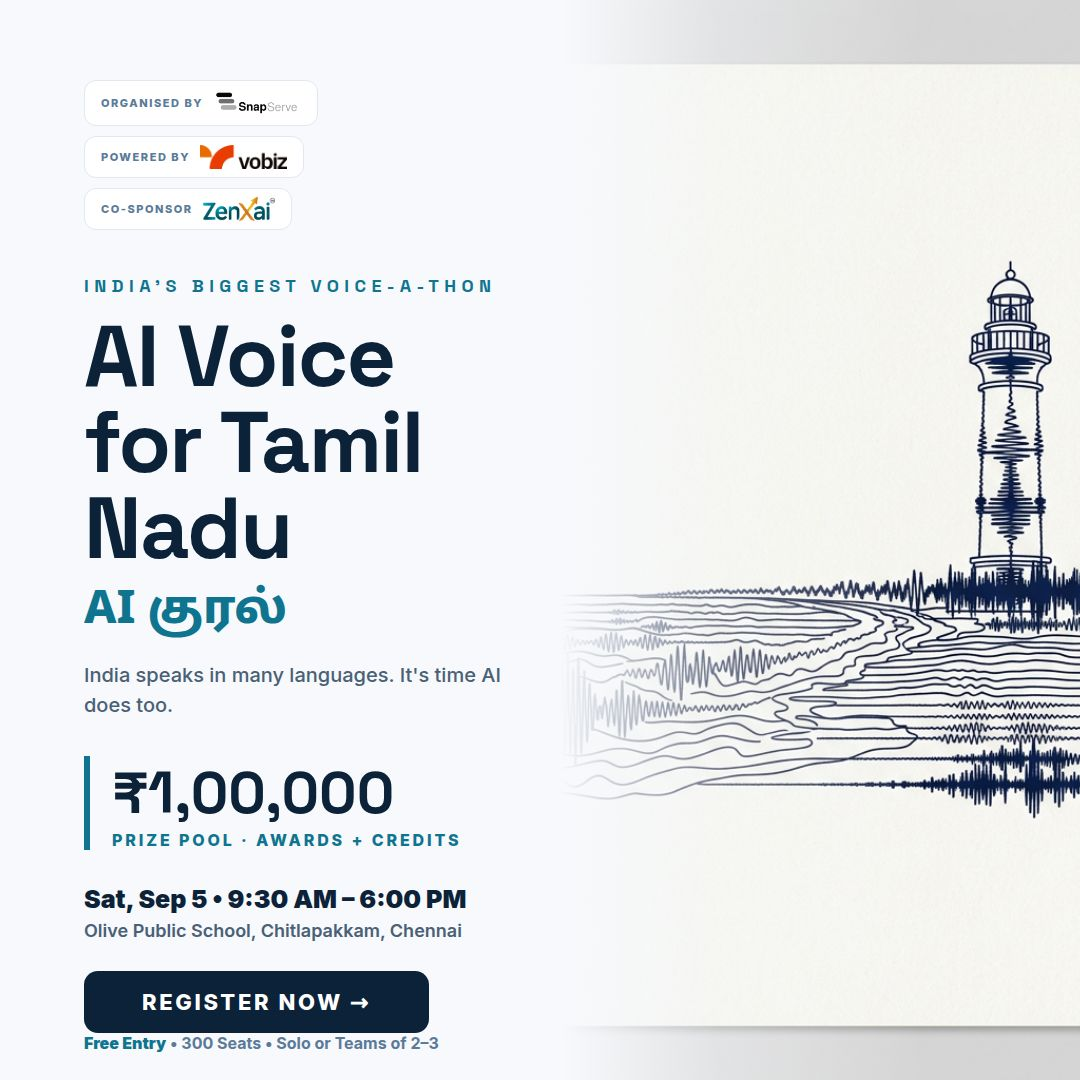
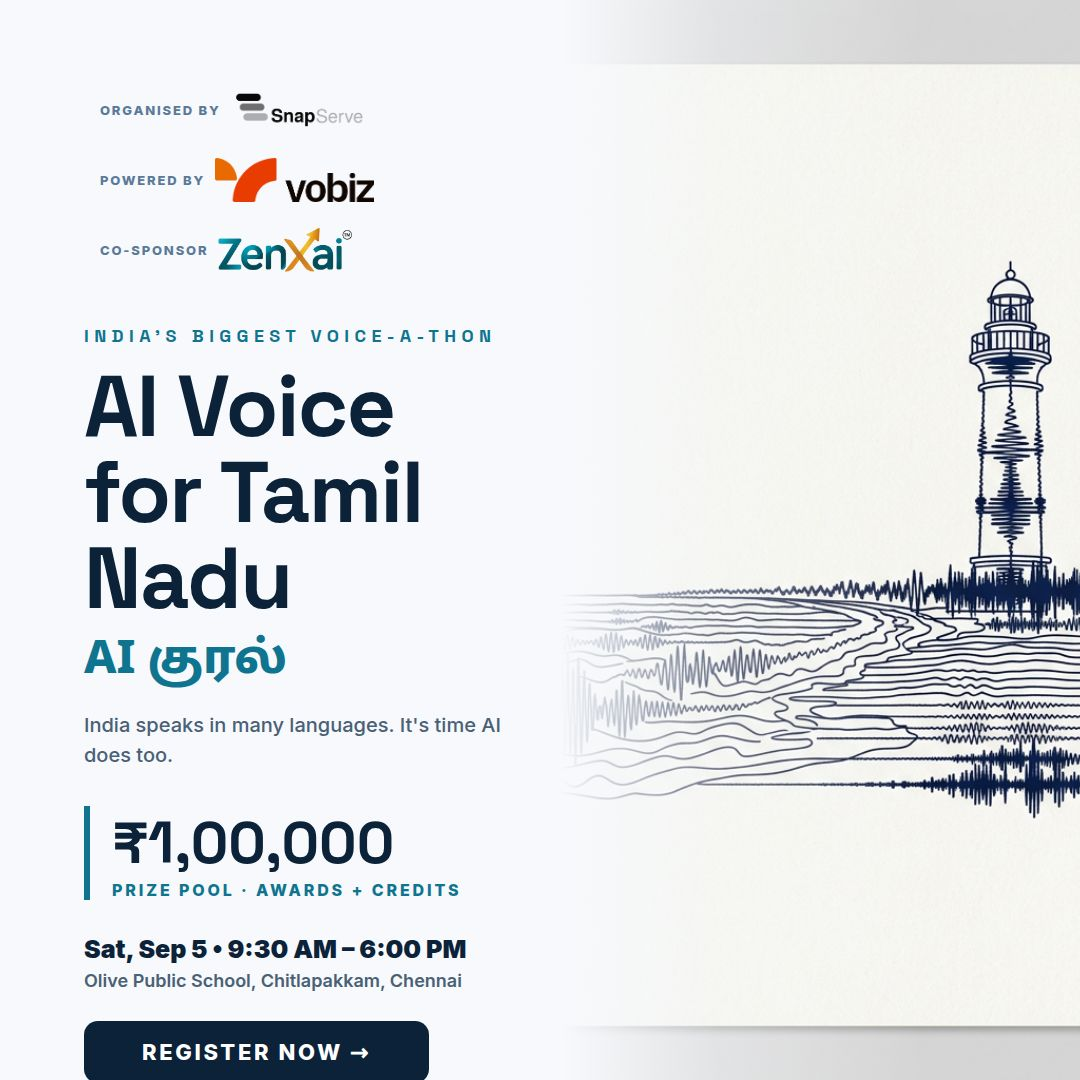
Update poster assets and metadata for snapserve-book
Replit-Commit-Author: Agent

Changed region(s): [[0.0611, 0.3056, 0.4583, 1.0], [0.0917, 0.0611, 0.4583, 0.275]]

diff --git a/artifacts/snapserve-book/public/poster/luma3.html b/artifacts/snapserve-book/public/poster/luma3.html
@@ -6,13 +6,12 @@
 html,body{width:1080px;height:1080px;overflow:hidden}
 body{font-family:'Inter',sans-serif;background:#FFFDFA;color:#123C42;position:relative}
 .art{position:absolute;top:0;left:0;right:0;height:470px;background:url(art/napier.png) center/cover no-repeat}
-.fade{position:absolute;top:0;left:0;right:0;height:470px;background:linear-gradient(0deg,#FFFDFA 0%,rgba(255,253,250,.15) 45%,rgba(255,253,250,0) 100%)}
+.fade{position:absolute;top:0;left:0;right:0;height:470px;background:linear-gradient(0deg,#FFFDFA 0%,rgba(255,253,250,.15) 45%,rgba(255,253,250,0) 70%,rgba(255,253,250,.85) 100%)}
 .band{position:absolute;top:44px;left:0;right:0;display:flex;justify-content:center}
-.chips{display:flex;gap:14px;background:rgba(255,255,255,.92);border:1px solid #E3EBEA;border-radius:999px;padding:12px 24px;box-shadow:0 8px 22px rgba(20,70,70,.1)}
-.chip{display:flex;align-items:center;gap:9px}
-.chip span{font-size:11px;font-weight:800;letter-spacing:.12em;color:#57807E}
-.chip img{height:24px}
-.chip+.chip{border-left:1px solid #E3EBEA;padding-left:14px}
+.chips{display:flex;gap:36px;border-radius:999px;padding:12px 24px;}
+.chip{display:flex;align-items:center;gap:12px}
+.chip span{font-size:13px;font-weight:800;letter-spacing:.12em;color:#123C42;white-space:nowrap}
+.chip img{height:44px}
 .wrap{position:absolute;top:430px;left:0;right:0;bottom:0;display:flex;flex-direction:column;align-items:center;text-align:center;padding:20px 90px 56px}
 .kicker{font-family:'Archivo';font-size:18px;font-weight:900;letter-spacing:.32em;color:#E5653A}
 h1{font-family:'Archivo';font-weight:900;font-size:84px;line-height:1.0;margin-top:12px;letter-spacing:-.01em}
@@ -29,7 +28,7 @@ h1{font-family:'Archivo';font-weight:900;font-size:84px;line-height:1.0;margin-t
 </style></head><body>
 <div class="art"></div><div class="fade"></div>
 <div class="band"><div class="chips">
-  <div class="chip"><span>ORGANISED BY</span><img src="snapserve-logo.png" style="height:26px"></div>
+  <div class="chip"><span>ORGANISED BY</span><img src="snapserve-logo-t.png"></div>
   <div class="chip"><span>POWERED BY</span><img src="vobiz-logo.png"></div>
   <div class="chip"><span>CO-SPONSOR</span><img src="zenxai-logo.png"></div>
 </div></div>

diff --git a/artifacts/snapserve-book/public/poster/luma8.html b/artifacts/snapserve-book/public/poster/luma8.html
@@ -7,9 +7,9 @@ html,body{width:1080px;height:1080px;overflow:hidden}
 body{font-family:'Inter',sans-serif;background:#FFF4EA url(art/marina-sunrise.png) center top/cover no-repeat;color:#3A2118;position:relative}
 .panel{position:absolute;left:70px;right:70px;bottom:64px;background:rgba(255,251,246,.95);border-radius:26px;padding:44px 56px;box-shadow:0 24px 60px rgba(120,50,20,.22);text-align:center}
 .chips{position:absolute;top:44px;left:0;right:0;display:flex;justify-content:center;gap:14px}
-.chip{display:flex;align-items:center;gap:9px;background:rgba(255,255,255,.94);border-radius:999px;padding:9px 18px;box-shadow:0 6px 16px rgba(120,50,20,.15)}
-.chip span{font-size:11px;font-weight:800;letter-spacing:.12em;color:#A06A4A}
-.chip img{height:24px}
+.chip{display:flex;align-items:center;gap:9px;border-radius:999px;padding:9px 18px;}
+.chip span{font-size:13px;font-weight:800;letter-spacing:.12em;color:#A06A4A}
+.chip img{height:44px}
 .kicker{font-family:'Poppins';font-size:16px;font-weight:800;letter-spacing:.32em;color:#E0592A}
 h1{font-family:'Poppins';font-weight:900;font-size:66px;line-height:1.04;margin-top:8px}
 .tamil{font-family:'Noto Sans Tamil',sans-serif;font-weight:800;font-size:38px;margin-top:6px;color:#E0592A}
@@ -20,7 +20,7 @@ h1{font-family:'Poppins';font-weight:900;font-size:66px;line-height:1.04;margin-
 .foot{margin-top:16px;font-size:16px;font-weight:700;color:#A06A4A}
 </style></head><body>
 <div class="chips">
-  <div class="chip"><span>ORGANISED BY</span><img src="snapserve-logo.png" style="height:26px"></div>
+  <div class="chip"><span>ORGANISED BY</span><img src="snapserve-logo-t.png"></div>
   <div class="chip"><span>POWERED BY</span><img src="vobiz-logo.png"></div>
   <div class="chip"><span>CO-SPONSOR</span><img src="zenxai-logo.png"></div>
 </div>

diff --git a/artifacts/snapserve-book/public/poster/luma5.html b/artifacts/snapserve-book/public/poster/luma5.html
@@ -9,9 +9,9 @@ body{font-family:'Inter',sans-serif;background:#05070F;color:#EAF2FF;position:re
 .fade{position:absolute;bottom:200px;left:0;right:0;height:330px;background:linear-gradient(180deg,#05070F 0%,rgba(5,7,15,0) 100%)}
 .wrap{position:absolute;inset:0;display:flex;flex-direction:column;align-items:center;text-align:center;padding:66px 90px}
 .chips{display:flex;gap:14px}
-.chip{display:flex;align-items:center;gap:10px;background:#fff;border-radius:10px;padding:8px 16px}
-.chip span{font-size:11px;font-weight:800;letter-spacing:.12em;color:#5A6B85}
-.chip img{height:24px}
+.chip{display:flex;align-items:center;gap:10px;border-radius:10px;padding:8px 16px}
+.chip span{font-size:13px;font-weight:800;letter-spacing:.12em;color:#5A6B85}
+.chip img{height:44px;filter:brightness(0) invert(1)}
 .kicker{margin-top:36px;font-family:'Space Grotesk';font-size:18px;font-weight:700;letter-spacing:.34em;background:linear-gradient(90deg,#22D3EE,#F97316);-webkit-background-clip:text;background-clip:text;color:transparent}
 h1{font-family:'Space Grotesk';font-weight:700;font-size:92px;line-height:1.0;margin-top:14px;letter-spacing:-.02em}
 .tamil{font-family:'Noto Sans Tamil',sans-serif;font-weight:800;font-size:48px;margin-top:10px;color:#22D3EE}
@@ -30,7 +30,7 @@ h1{font-family:'Space Grotesk';font-weight:700;font-size:92px;line-height:1.0;ma
 <div class="art"></div><div class="fade"></div>
 <div class="wrap">
   <div class="chips">
-    <div class="chip"><span>ORGANISED BY</span><img src="snapserve-logo.png" style="height:26px"></div>
+    <div class="chip"><span>ORGANISED BY</span><img src="snapserve-logo-t.png"></div>
     <div class="chip"><span>POWERED BY</span><img src="vobiz-logo.png"></div>
     <div class="chip"><span>CO-SPONSOR</span><img src="zenxai-logo.png"></div>
   </div>

diff --git a/artifacts/snapserve-book/public/poster/luma2.html b/artifacts/snapserve-book/public/poster/luma2.html
@@ -9,9 +9,9 @@ body{font-family:'Inter',sans-serif;background:#F7F9FC;color:#0B2239;position:re
 .right{position:absolute;right:0;top:0;bottom:0;width:520px;background:url(art/lighthouse-wave.png) center/cover no-repeat}
 .rfade{position:absolute;right:0;top:0;bottom:0;width:520px;background:linear-gradient(90deg,#F7F9FC 0%,rgba(247,249,252,.4) 30%,rgba(247,249,252,0) 70%)}
 .chips{display:flex;flex-direction:column;gap:10px;align-items:flex-start}
-.chip{display:flex;align-items:center;gap:10px;background:#fff;border:1px solid #E1E8F0;border-radius:12px;padding:8px 16px}
-.chip span{font-size:11px;font-weight:800;letter-spacing:.14em;color:#5B7A99}
-.chip img{height:24px}
+.chip{display:flex;align-items:center;gap:10px;border-radius:12px;padding:8px 16px}
+.chip span{font-size:13px;font-weight:800;letter-spacing:.14em;color:#5B7A99}
+.chip img{height:44px}
 .kicker{margin-top:44px;font-family:'Space Grotesk';font-size:18px;font-weight:700;letter-spacing:.3em;color:#0E7490}
 h1{font-family:'Space Grotesk';font-weight:700;font-size:86px;line-height:1.0;margin-top:16px;letter-spacing:-.02em}
 .tamil{font-family:'Noto Sans Tamil',sans-serif;font-weight:800;font-size:46px;margin-top:12px;color:#0E7490}
@@ -28,7 +28,7 @@ h1{font-family:'Space Grotesk';font-weight:700;font-size:86px;line-height:1.0;ma
 <div class="right"></div><div class="rfade"></div>
 <div class="left">
   <div class="chips">
-    <div class="chip"><span>ORGANISED BY</span><img src="snapserve-logo.png" style="height:28px"></div>
+    <div class="chip"><span>ORGANISED BY</span><img src="snapserve-logo-t.png"></div>
     <div class="chip"><span>POWERED BY</span><img src="vobiz-logo.png"></div>
     <div class="chip"><span>CO-SPONSOR</span><img src="zenxai-logo.png"></div>
   </div>

diff --git a/artifacts/snapserve-book/public/poster/luma7.html b/artifacts/snapserve-book/public/poster/luma7.html
@@ -10,9 +10,9 @@ body{font-family:'Inter',sans-serif;background:#F6EFDF;color:#332417;position:re
 .art{position:absolute;bottom:56px;right:96px;width:400px;height:430px;background:url(art/auto-halftone.png) center/contain no-repeat}
 .wrap{position:absolute;inset:0;display:flex;flex-direction:column;padding:70px 110px}
 .chips{display:flex;gap:12px}
-.chip{display:flex;align-items:center;gap:9px;background:#fff;border:1px solid #E5D8BC;border-radius:8px;padding:8px 14px}
-.chip span{font-size:10px;font-weight:900;letter-spacing:.12em;color:#9A7A45}
-.chip img{height:22px}
+.chip{display:flex;align-items:center;gap:9px;border-radius:8px;padding:8px 14px}
+.chip span{font-size:13px;font-weight:900;letter-spacing:.12em;color:#9A7A45}
+.chip img{height:44px}
 .ticket{margin-top:46px;display:inline-block;background:#B3541E;color:#F6EFDF;font-weight:800;font-size:15px;letter-spacing:.3em;padding:10px 24px;align-self:flex-start;border-radius:4px}
 h1{font-family:'DM Serif Display',serif;font-size:100px;line-height:1.0;margin-top:20px;max-width:760px}
 .tamil{font-family:'Noto Sans Tamil',sans-serif;font-weight:800;font-size:46px;margin-top:12px;color:#B3541E}
@@ -26,7 +26,7 @@ h1{font-family:'DM Serif Display',serif;font-size:100px;line-height:1.0;margin-t
 <div class="tape"></div><div class="tape2"></div><div class="art"></div>
 <div class="wrap">
   <div class="chips">
-    <div class="chip"><span>ORGANISED BY</span><img src="snapserve-logo.png" style="height:24px"></div>
+    <div class="chip"><span>ORGANISED BY</span><img src="snapserve-logo-t.png"></div>
     <div class="chip"><span>POWERED BY</span><img src="vobiz-logo.png"></div>
     <div class="chip"><span>CO-SPONSOR</span><img src="zenxai-logo.png"></div>
   </div>

diff --git a/artifacts/snapserve-book/public/poster/luma1.html b/artifacts/snapserve-book/public/poster/luma1.html
@@ -10,9 +10,9 @@ body{font-family:'Inter',sans-serif;background:#FBF6ED;color:#2A1810;position:re
 .frame{position:absolute;inset:30px;border:2px solid rgba(150,90,40,.3);border-radius:24px}
 .wrap{position:absolute;inset:0;display:flex;flex-direction:column;align-items:center;text-align:center;padding:64px 90px}
 .chips{display:flex;gap:16px;align-items:center}
-.chip{display:flex;align-items:center;gap:10px;background:#fff;border:1px solid #EADFCC;border-radius:999px;padding:10px 20px;box-shadow:0 4px 12px rgba(120,60,10,.07)}
-.chip span{font-size:12px;font-weight:700;letter-spacing:.12em;color:#96704A}
-.chip img{height:26px}
+.chip{display:flex;align-items:center;gap:10px;border-radius:999px;padding:10px 20px;}
+.chip span{font-size:13px;font-weight:700;letter-spacing:.12em;color:#96704A}
+.chip img{height:44px}
 .kicker{margin-top:36px;font-size:19px;font-weight:800;letter-spacing:.34em;color:#C0541C}
 h1{font-family:'Fraunces',serif;font-weight:900;font-size:92px;line-height:1.02;margin-top:14px}
 .tamil{font-family:'Noto Sans Tamil',sans-serif;font-weight:800;font-size:52px;margin-top:8px;color:#C0541C}
@@ -31,7 +31,7 @@ h1{font-family:'Fraunces',serif;font-weight:900;font-size:92px;line-height:1.02;
 <div class="art"></div><div class="fade"></div><div class="frame"></div>
 <div class="wrap">
   <div class="chips">
-    <div class="chip"><span>ORGANISED BY</span><img src="snapserve-logo.png" style="height:30px"></div>
+    <div class="chip"><span>ORGANISED BY</span><img src="snapserve-logo-t.png"></div>
     <div class="chip"><span>POWERED BY</span><img src="vobiz-logo.png"></div>
     <div class="chip"><span>CO-SPONSOR</span><img src="zenxai-logo.png"></div>
   </div>

diff --git a/artifacts/snapserve-book/public/poster/luma10.html b/artifacts/snapserve-book/public/poster/luma10.html
@@ -10,9 +10,9 @@ body{font-family:'Inter',sans-serif;background:#06251F;color:#F2E9D8;position:re
 .frame{position:absolute;inset:34px;border:1px solid rgba(212,175,55,.45)}
 .wrap{position:absolute;inset:0;display:flex;flex-direction:column;padding:84px 0 76px 92px;max-width:640px}
 .chips{display:flex;flex-direction:column;gap:10px;align-items:flex-start}
-.chip{display:flex;align-items:center;gap:10px;background:#F7F3E8;border-radius:8px;padding:8px 16px}
-.chip span{font-size:10px;font-weight:900;letter-spacing:.14em;color:#8A7434}
-.chip img{height:22px}
+.chip{display:flex;align-items:center;gap:10px;border-radius:8px;padding:8px 16px}
+.chip span{font-size:13px;font-weight:900;letter-spacing:.14em;color:#8A7434}
+.chip img{height:44px;filter:brightness(0) invert(1)}
 .kicker{margin-top:44px;font-size:16px;font-weight:800;letter-spacing:.38em;color:#D4AF37}
 h1{font-family:'Playfair Display',serif;font-weight:800;font-size:88px;line-height:1.03;margin-top:14px}
 .tamil{font-family:'Noto Sans Tamil',sans-serif;font-weight:800;font-size:44px;margin-top:12px;color:#D4AF37}
@@ -29,7 +29,7 @@ h1{font-family:'Playfair Display',serif;font-weight:800;font-size:88px;line-heig
 <div class="art"></div><div class="rfade"></div><div class="frame"></div>
 <div class="wrap">
   <div class="chips">
-    <div class="chip"><span>ORGANISED BY</span><img src="snapserve-logo.png" style="height:24px"></div>
+    <div class="chip"><span>ORGANISED BY</span><img src="snapserve-logo-t.png"></div>
     <div class="chip"><span>POWERED BY</span><img src="vobiz-logo.png"></div>
     <div class="chip"><span>CO-SPONSOR</span><img src="zenxai-logo.png"></div>
   </div>

diff --git a/artifacts/snapserve-book/public/poster/luma4.html b/artifacts/snapserve-book/public/poster/luma4.html
@@ -10,9 +10,9 @@ body{font-family:'Inter',sans-serif;background:#0A1330 url(art/kolam-circuit.png
 .frame:after{content:"";position:absolute;inset:7px;border:1px solid rgba(224,181,102,.25)}
 .wrap{position:absolute;inset:0;display:flex;flex-direction:column;align-items:center;text-align:center;padding:78px 90px}
 .chips{display:flex;gap:14px}
-.chip{display:flex;align-items:center;gap:10px;background:rgba(245,235,216,.95);border-radius:999px;padding:9px 18px}
-.chip span{font-size:11px;font-weight:800;letter-spacing:.12em;color:#7A6234}
-.chip img{height:24px}
+.chip{display:flex;align-items:center;gap:10px;border-radius:999px;padding:9px 18px}
+.chip span{font-size:13px;font-weight:800;letter-spacing:.12em;color:#D9C48C}
+.chip img{height:44px;filter:brightness(0) invert(1)}
 .kicker{margin-top:40px;font-size:18px;font-weight:800;letter-spacing:.4em;color:#E0B566}
 h1{font-family:'Cormorant Garamond',serif;font-weight:700;font-size:96px;line-height:1.0;margin-top:16px;color:#F5EBD8}
 .tamil{font-family:'Noto Sans Tamil',sans-serif;font-weight:800;font-size:50px;margin-top:10px;color:#E0B566}
@@ -29,7 +29,7 @@ h1{font-family:'Cormorant Garamond',serif;font-weight:700;font-size:96px;line-he
 <div class="veil"></div><div class="frame"></div>
 <div class="wrap">
   <div class="chips">
-    <div class="chip"><span>ORGANISED BY</span><img src="snapserve-logo.png" style="height:26px"></div>
+    <div class="chip"><span>ORGANISED BY</span><img src="snapserve-logo-t.png"></div>
     <div class="chip"><span>POWERED BY</span><img src="vobiz-logo.png"></div>
     <div class="chip"><span>CO-SPONSOR</span><img src="zenxai-logo.png"></div>
   </div>

diff --git a/artifacts/snapserve-book/public/poster/luma6.html b/artifacts/snapserve-book/public/poster/luma6.html
@@ -10,9 +10,9 @@ body{font-family:'Inter',sans-serif;background:#FFFFFF;color:#101418;position:re
 .wrap{position:absolute;inset:0;display:flex;flex-direction:column;padding:64px 84px}
 .top{display:flex;justify-content:space-between;align-items:center}
 .chips{display:flex;gap:12px}
-.chip{display:flex;align-items:center;gap:9px;border:1.5px solid #E4E9EE;border-radius:10px;padding:8px 14px;background:#fff}
-.chip span{font-size:10px;font-weight:900;letter-spacing:.12em;color:#8A97A5}
-.chip img{height:22px}
+.chip{display:flex;align-items:center;gap:9px;border-radius:10px;padding:8px 14px;}
+.chip span{font-size:13px;font-weight:900;letter-spacing:.12em;color:#8A97A5}
+.chip img{height:44px}
 .kicker{margin-top:52px;font-size:17px;font-weight:900;letter-spacing:.36em;color:#F97316}
 h1{font-weight:900;font-size:96px;line-height:.98;margin-top:12px;letter-spacing:-.035em}
 h1 em{font-style:normal;color:#0E7490}
@@ -26,7 +26,7 @@ h1 em{font-style:normal;color:#0E7490}
 <div class="grid"></div><div class="art"></div>
 <div class="wrap">
   <div class="top"><div class="chips">
-    <div class="chip"><span>ORGANISED BY</span><img src="snapserve-logo.png" style="height:24px"></div>
+    <div class="chip"><span>ORGANISED BY</span><img src="snapserve-logo-t.png"></div>
     <div class="chip"><span>POWERED BY</span><img src="vobiz-logo.png"></div>
     <div class="chip"><span>CO-SPONSOR</span><img src="zenxai-logo.png"></div>
   </div></div>

diff --git a/artifacts/snapserve-book/public/poster/luma9.html b/artifacts/snapserve-book/public/poster/luma9.html
@@ -13,8 +13,8 @@ body{font-family:'Inter',sans-serif;background:#F2F1EE;color:#1C1B19;position:re
 .masthead{display:flex;justify-content:space-between;align-items:center}
 .chips{display:flex;gap:12px}
 .chip{display:flex;align-items:center;gap:8px}
-.chip span{font-size:10px;font-weight:800;letter-spacing:.12em;color:#7B7568}
-.chip img{height:22px}
+.chip span{font-size:13px;font-weight:800;letter-spacing:.12em;color:#7B7568}
+.chip img{height:44px}
 .chip+.chip{border-left:1px solid #CFCBC2;padding-left:12px}
 .date{font-size:13px;font-weight:800;letter-spacing:.2em;color:#7B7568}
 .kicker{margin-top:70px;font-size:16px;font-weight:800;letter-spacing:.4em;color:#B3541E}
@@ -30,7 +30,7 @@ h1{font-family:'Libre Caslon Display',serif;font-size:108px;line-height:1.0;marg
 <div class="wrap">
   <div class="masthead">
     <div class="chips">
-      <div class="chip"><span>ORGANISED BY</span><img src="snapserve-logo.png" style="height:24px"></div>
+      <div class="chip"><span>ORGANISED BY</span><img src="snapserve-logo-t.png"></div>
       <div class="chip"><span>POWERED BY</span><img src="vobiz-logo.png"></div>
       <div class="chip"><span>CO-SPONSOR</span><img src="zenxai-logo.png"></div>
     </div>
